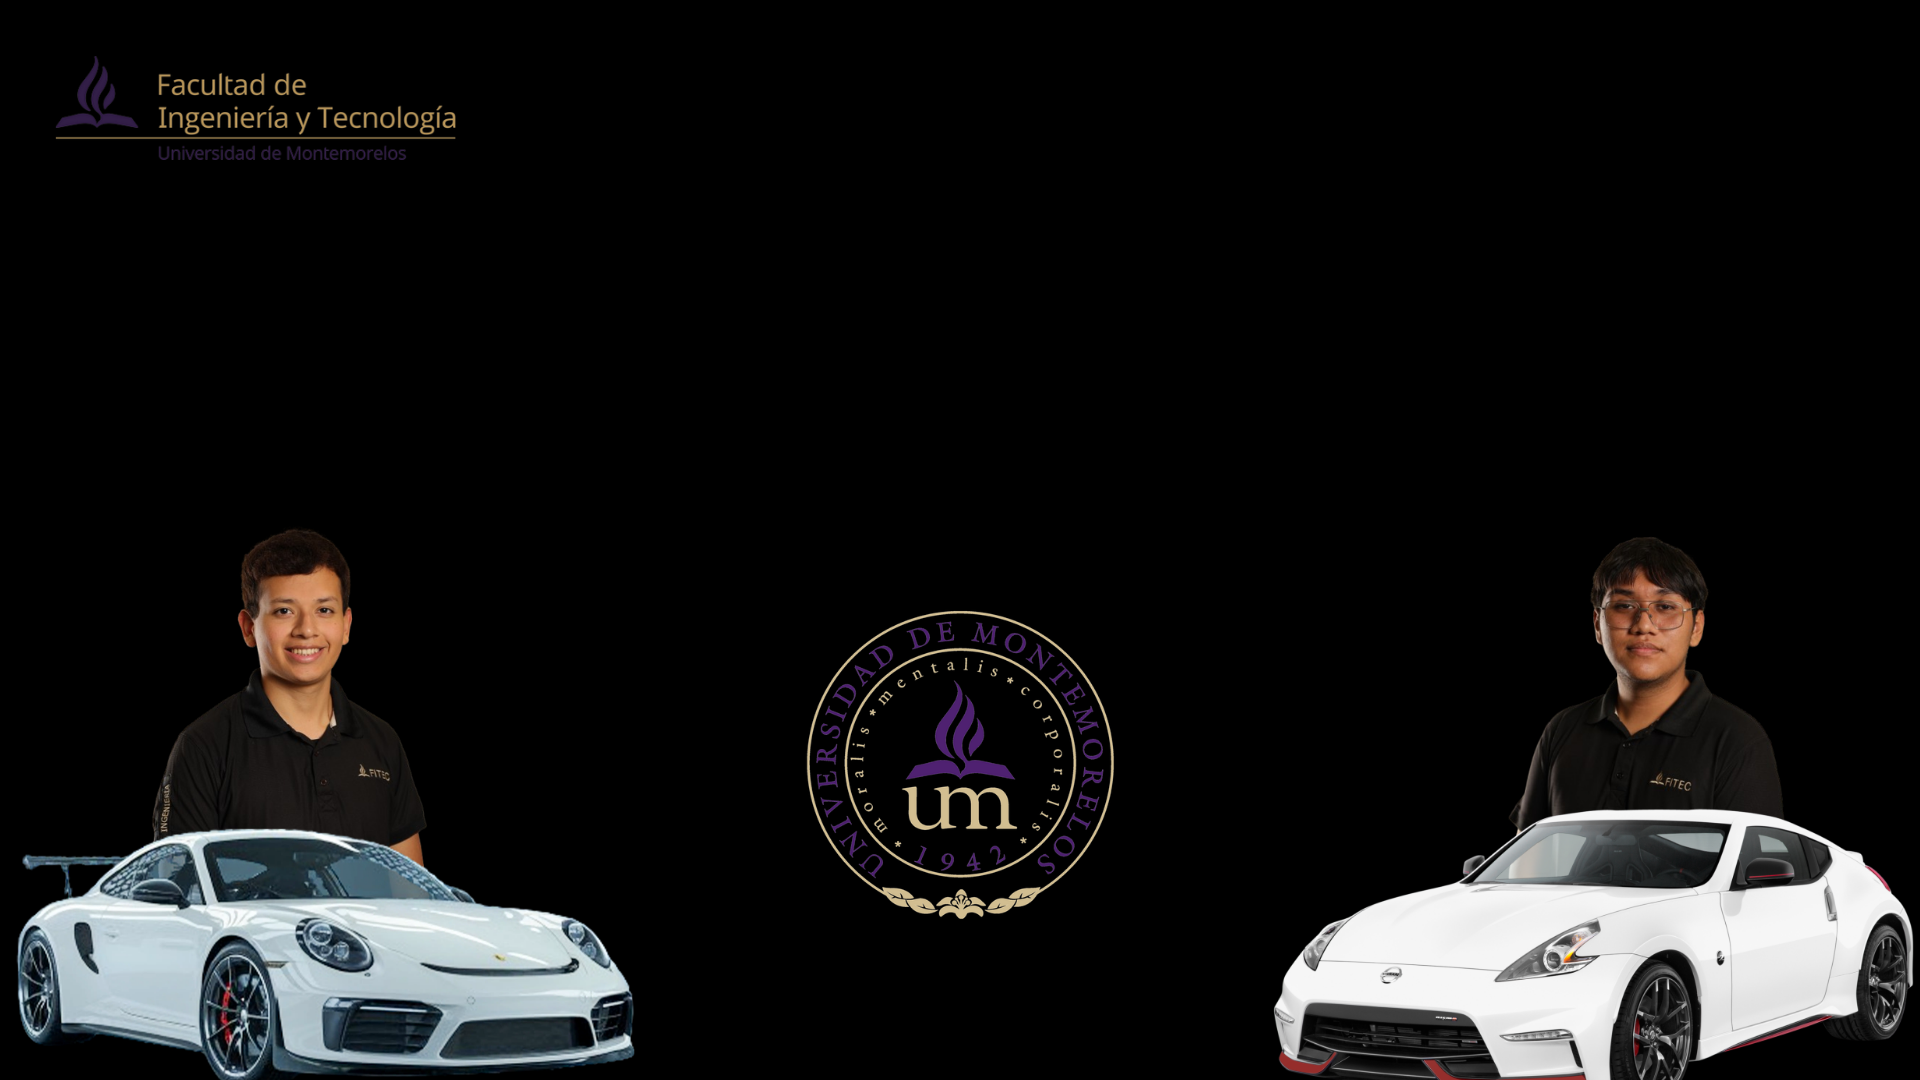
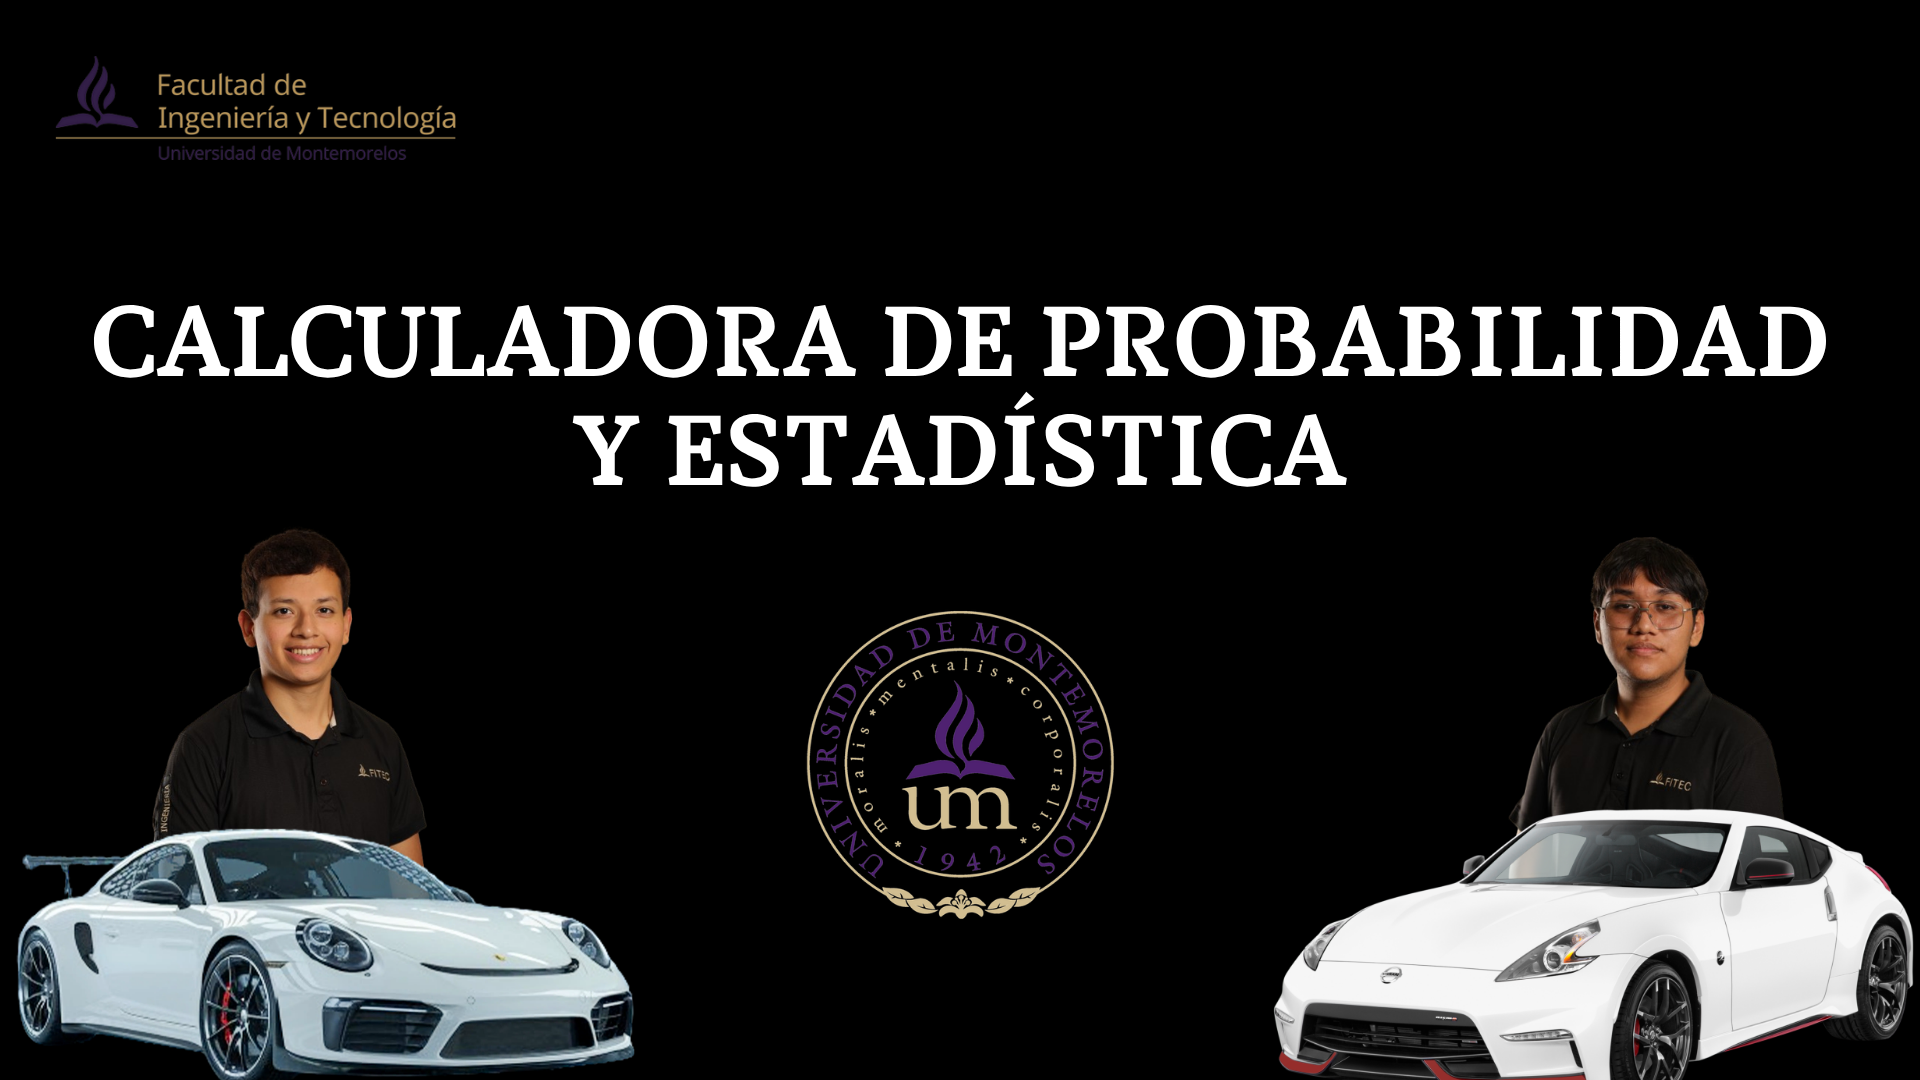
fondo

Changed region(s): [[0.0312, 0.275, 0.9688, 0.4583]]

diff --git a/FrontEnd/mi-app/src/App.jsx b/FrontEnd/mi-app/src/App.jsx
@@ -57,10 +57,7 @@ function App() {
   <img src={heroImg} alt="Fondo" className="background-image" />
   <div className="overlay"></div>
   <div className="hero-section">
-    <h1 className="main-title-minimal">
-      CALCULADORA DE<br />
-      PROBABILIDAD Y ESTADÍSTICA
-    </h1>
+    
   </div>
 </div>
 

diff --git a/FrontEnd/mi-app/src/App.css b/FrontEnd/mi-app/src/App.css
@@ -24,7 +24,7 @@ body {
   width: 100%;
   height: 100%;
   object-fit: cover;
-  z-index: 0;
+  z-index: 2;
 }
 
 .overlay {
